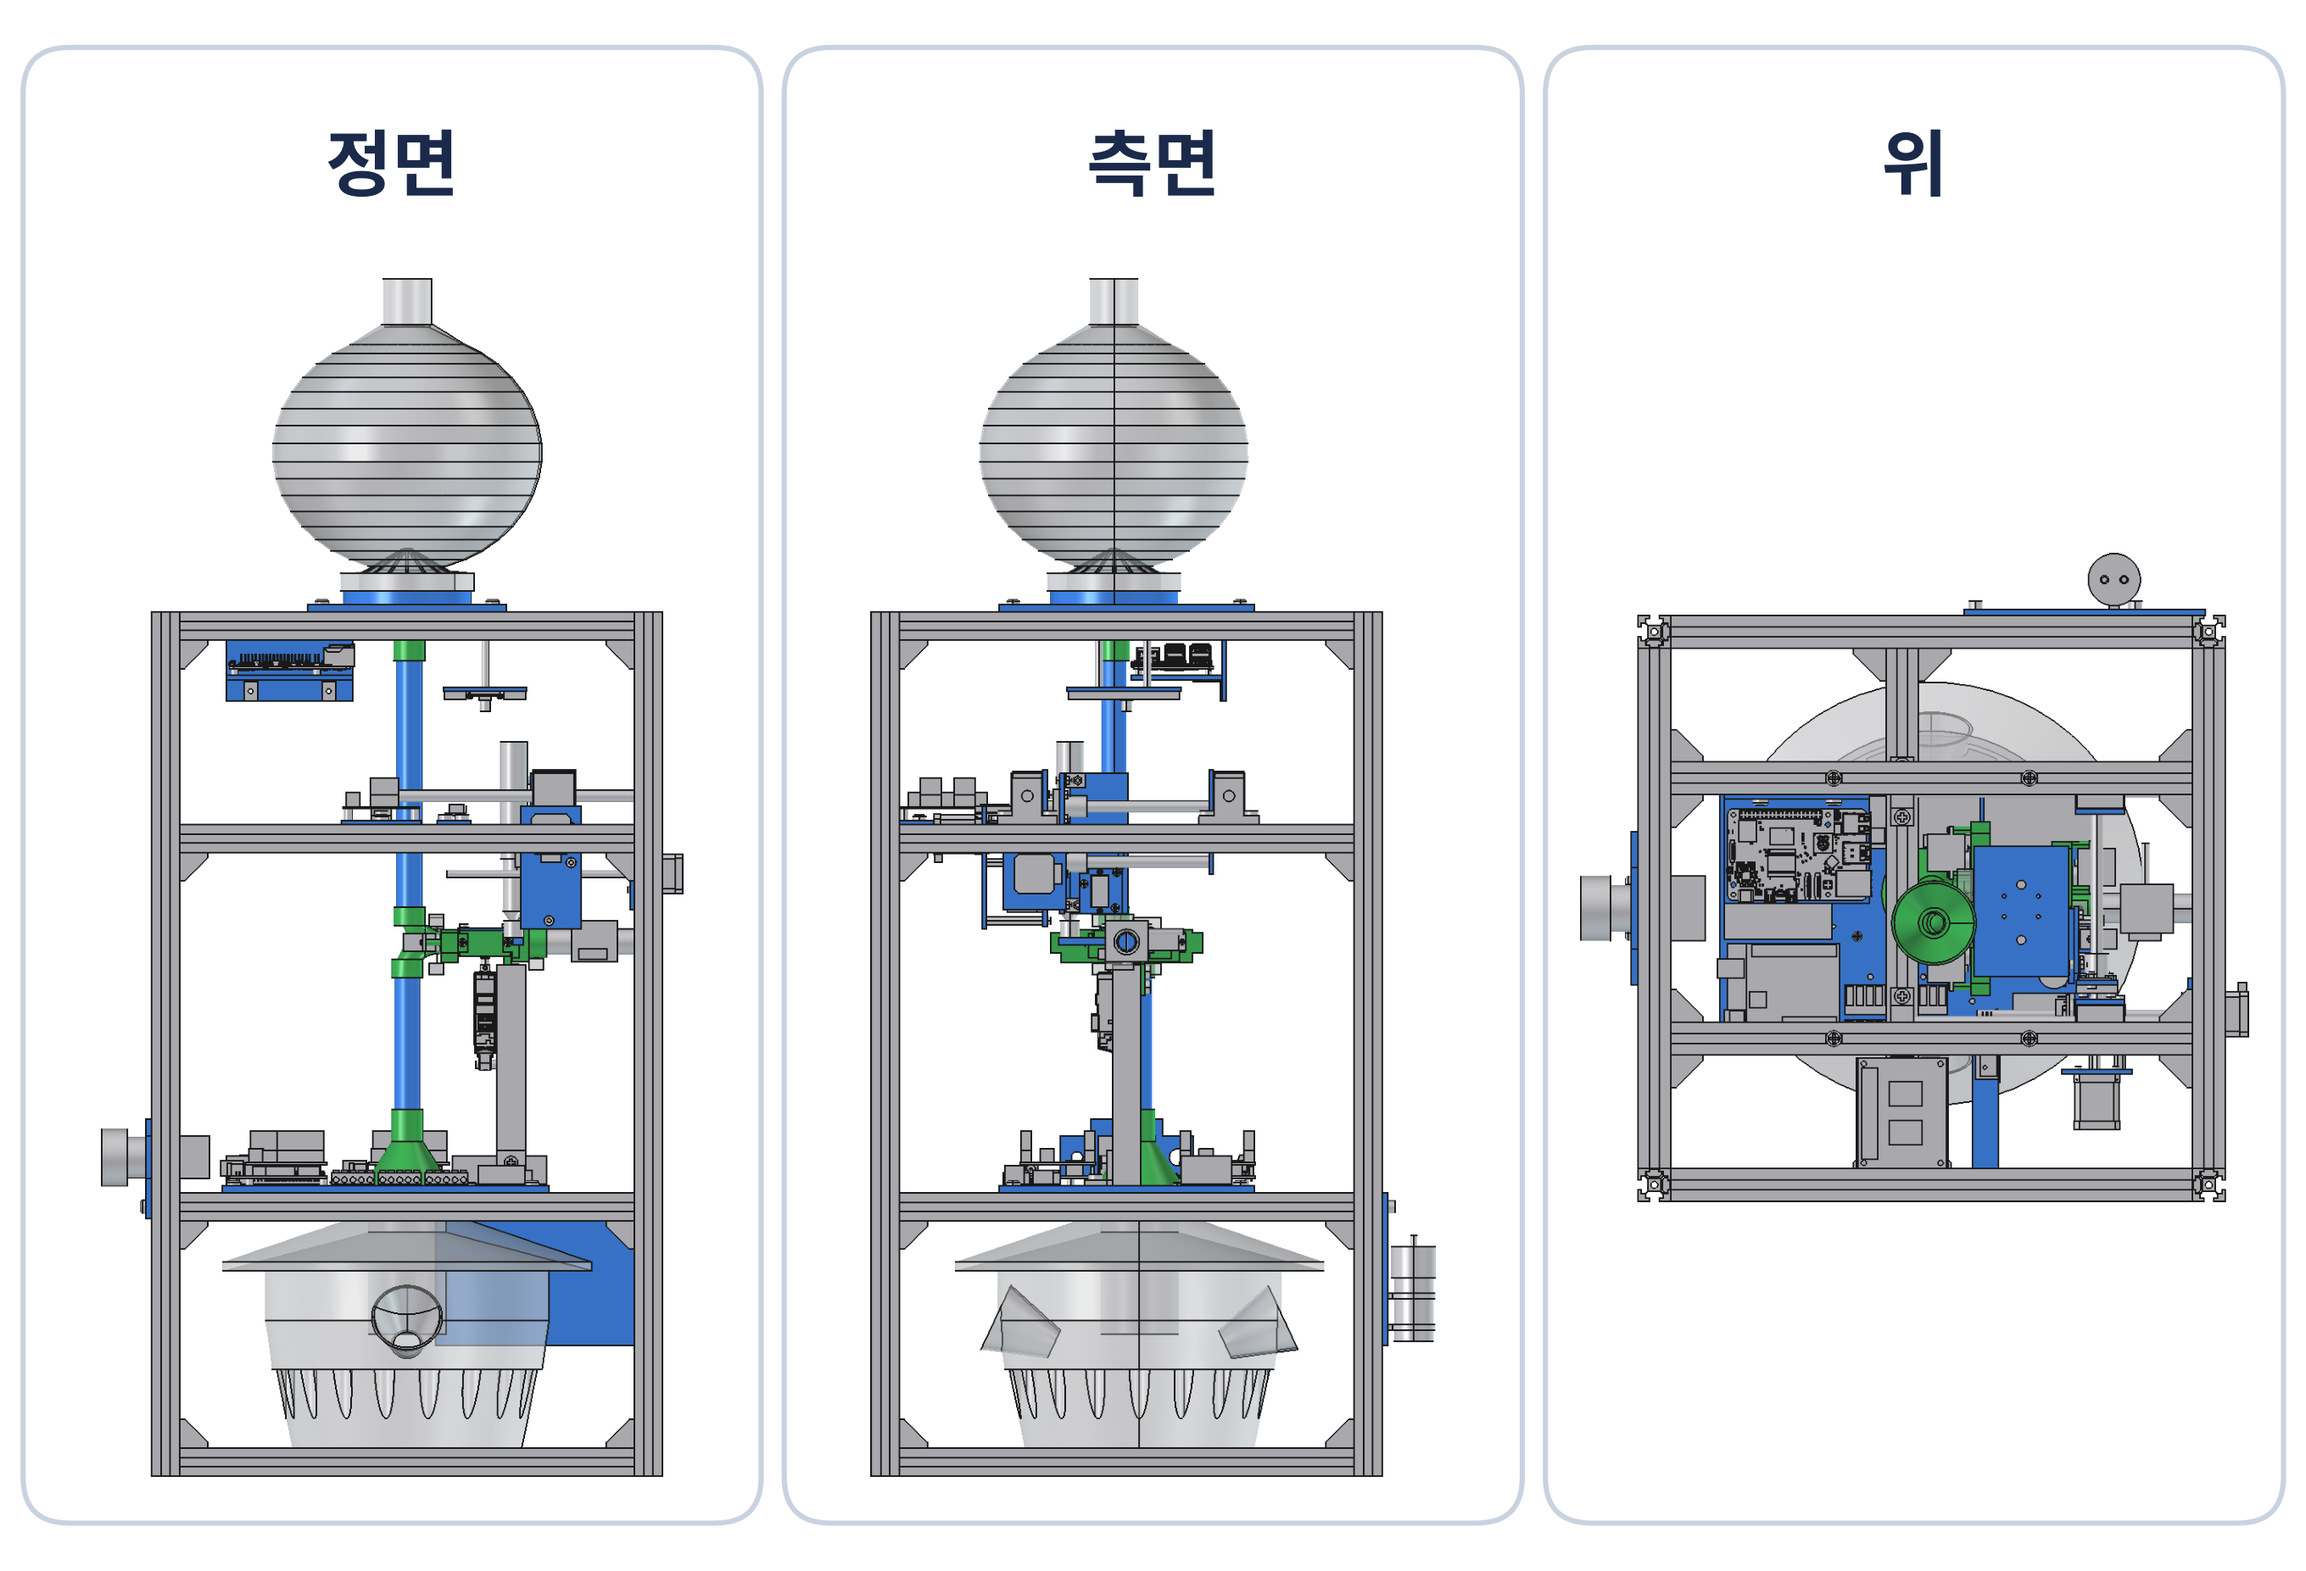
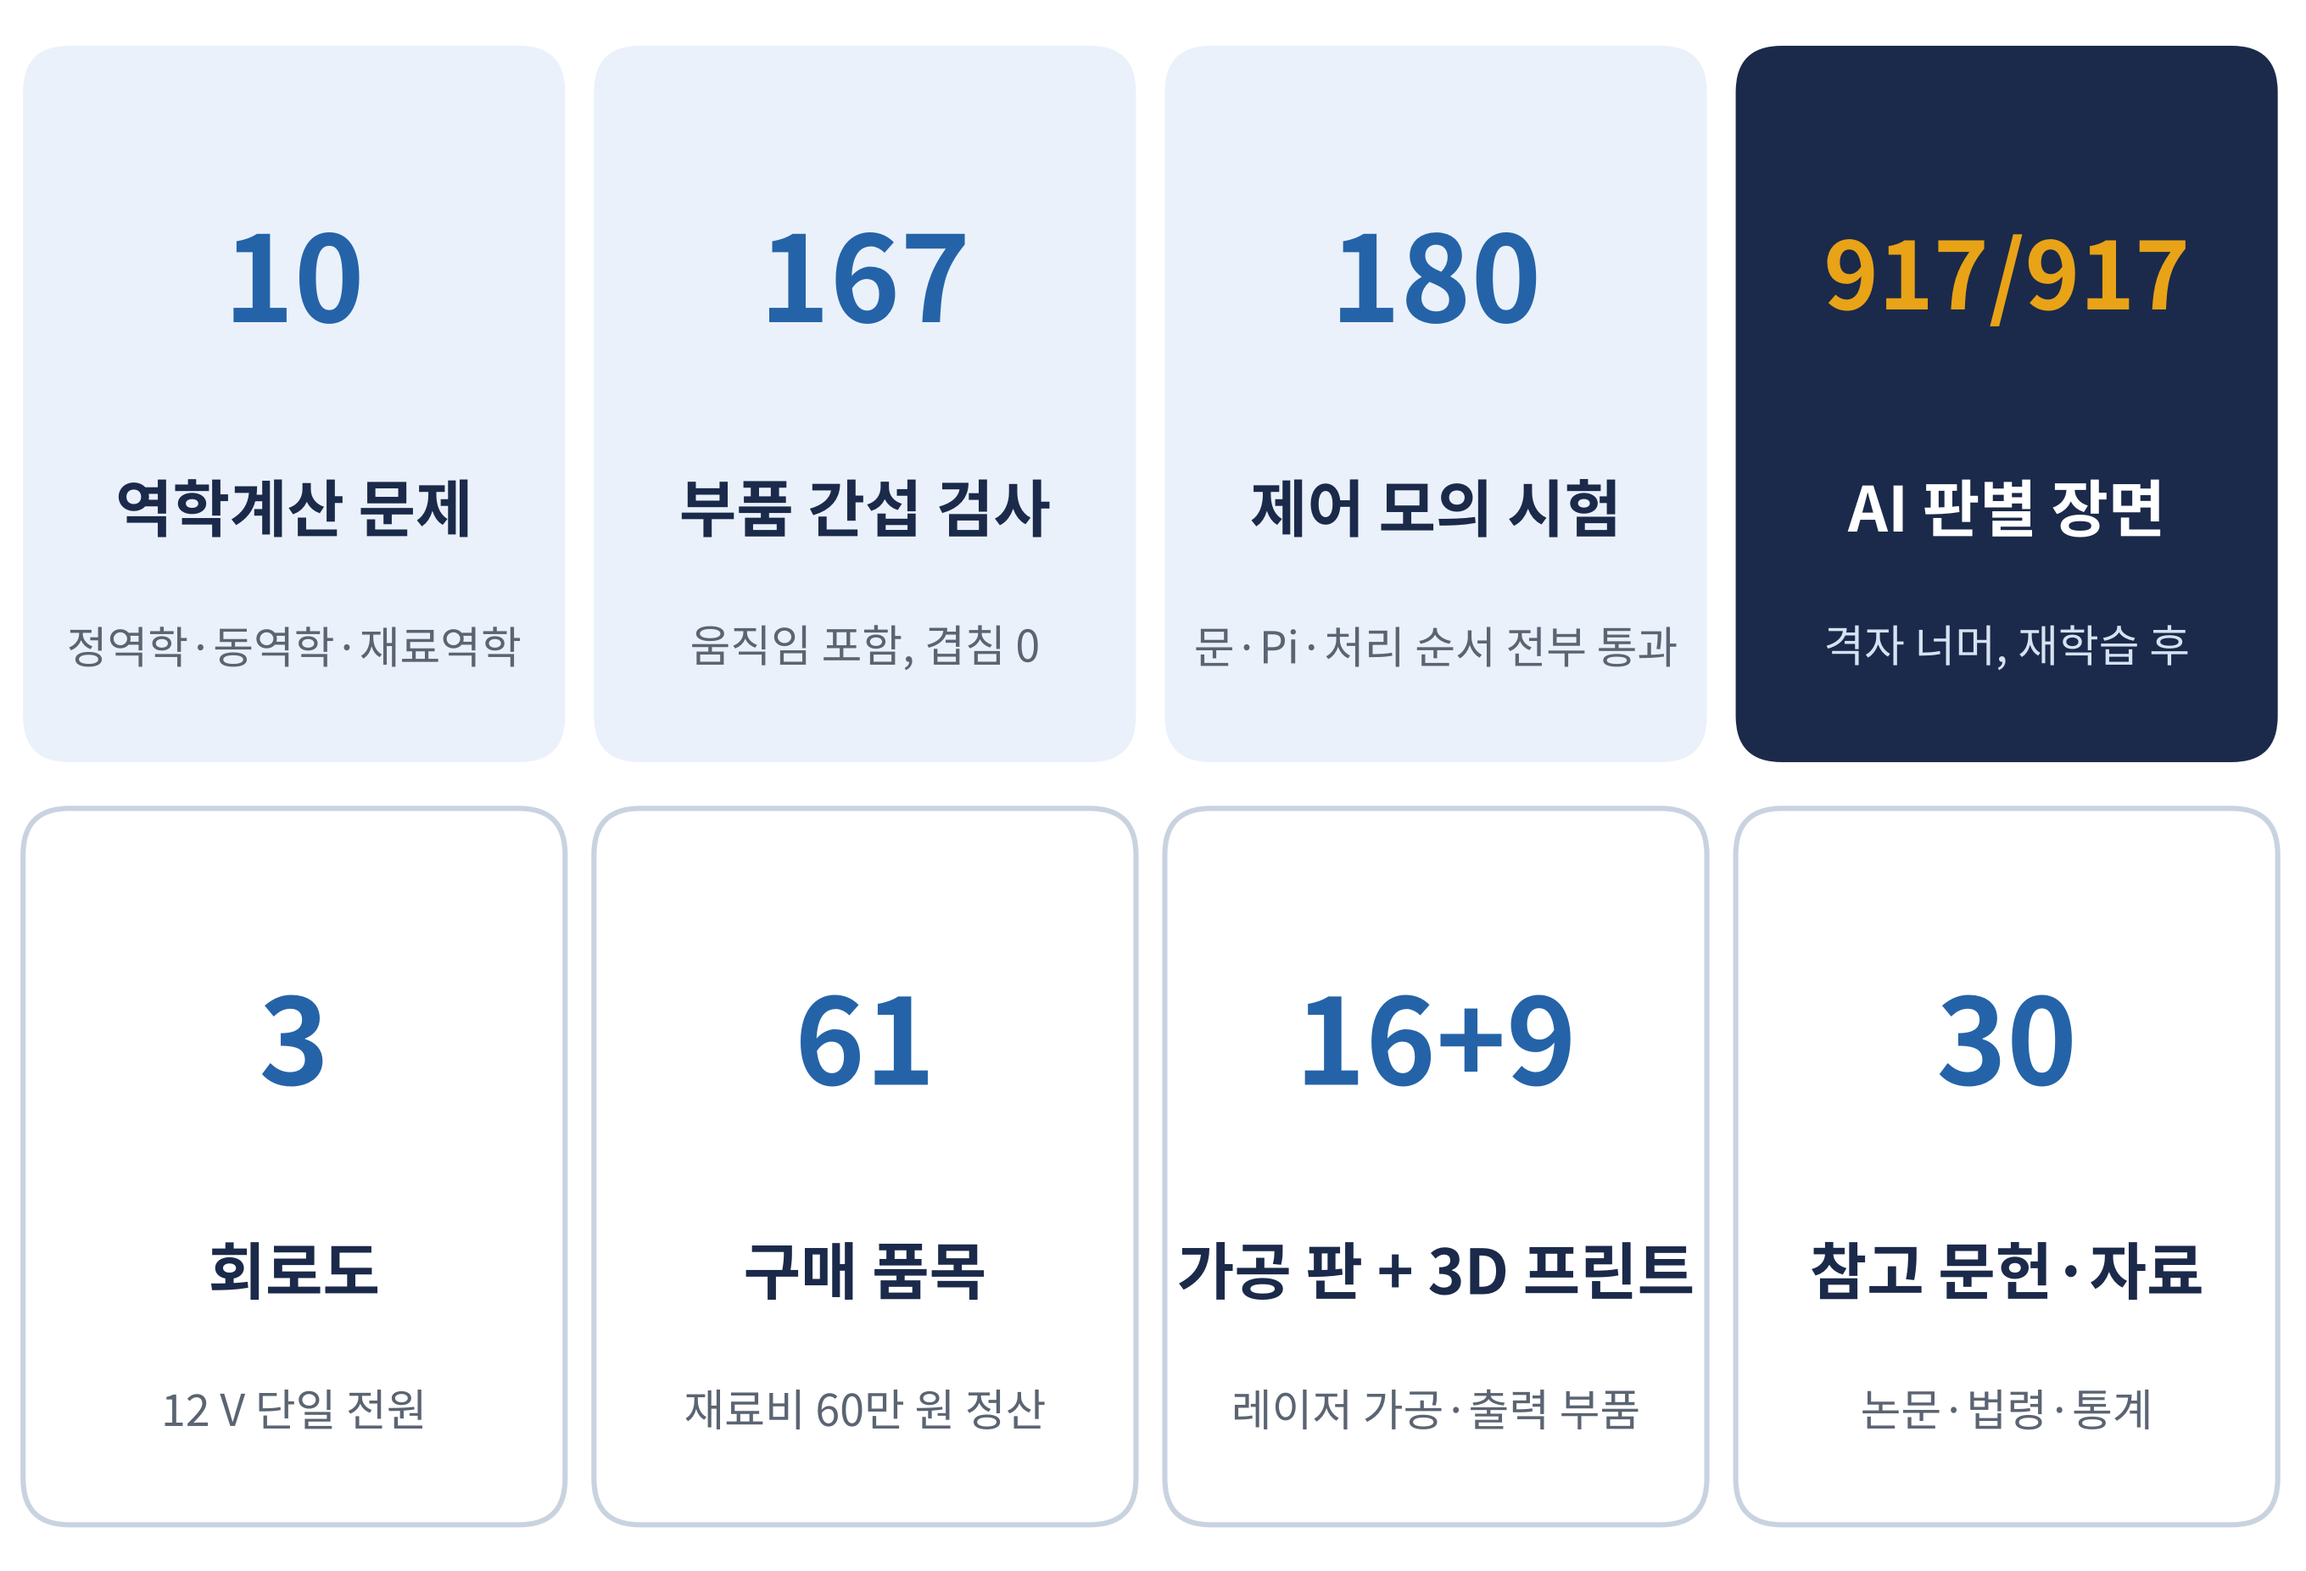
[서현] 포스터 글 늘림·'한 일' 그림, 실물 없음 반영 (전시 X), 팀 정보 줄 줄임 (CAP-AI-62)
Claude-Session: https://claude.ai/code/session_01RWCzqVuPhrynBXeDi6fBqB

diff --git a/design/submit/report.js b/design/submit/report.js
@@ -39,7 +39,7 @@ const cover = [
 const body = [
   h1('요약'),
   p('등검은말벌은 꿀벌을 잡아먹는 외래종으로, 피해를 줄이는 근본 대책은 둥지 제거임. 둥지를 찾는 첫 단계인 "말벌을 잡아 몸에 표시하고 돌아오는 시간을 재는 일"은 지금 사람이 손으로 하고 있어 쏘임 위험과 시간 부담이 큼. 본 과제는 이 단계를 사람 없이 하는 모듈을 설계함. 시판 말벌 트랩에 얹어, 들어온 말벌을 한 마리씩 가두고 → 카메라 AI로 판별하고 → 승강 바닥으로 투명 격자에 고정한 뒤 → XY 펜으로 가슴에 점을 찍고 → 내보내며 시각을 기록함.'),
-  p('고정 방식은 양봉가의 여왕벌 마킹 통 원리를 기계화한 것이고, 판별은 공개 모델 VespAI를 우리 표본과 격자 조건으로 다시 학습해 격자 너머 시험 영상 917/917 장면에서 말벌을 찾음. CAD 움직임·간섭 검사와 제어 시뮬레이션을 통과했고, 12/2 표본 말벌로 동작 시연 예정임.'),
+  p('고정 방식은 양봉가의 여왕벌 마킹 통 원리를 기계화한 것이고, 판별은 공개 모델 VespAI를 우리 표본과 격자 조건으로 다시 학습해 격자 너머 시험 영상 917/917 장면에서 말벌을 찾음. CAD 움직임·간섭 검사와 제어 시뮬레이션을 통과했고, 실물은 대회 이후 제작·시험 예정임.'),
 
   h1('1. 서론'),
   h2('1.1 배경과 필요성'),

diff --git a/design/poster/content.py b/design/poster/content.py
@@ -1,13 +1,13 @@
 OUT='말벌트랩_포스터_앵커_초안.pptx'
 TITLE='등검은말벌 둥지 추적 마킹 트랩'
-TEAM=[('팀      명 ','초벌'),('소      속 ','국립공주대학교 그린바이오 컨소시엄'),('지도교수 ','기계자동차공학부 기계공학전공 김성관 교수'),('팀      장 ','기계자동차공학부 기계공학전공 이서현(4학년)'),('팀      원 ','기계자동차공학부 기계공학전공 이승준(3학년)')]
+TEAM=[('팀      명 ','초벌'),('소      속 ','국립공주대학교 그린바이오 컨소시엄'),('지도교수 ','기계공학전공 김성관 교수'),('팀      장 ','기계공학전공 이서현 (4학년)'),('팀      원 ','기계공학전공 이승준 (3학년)')]
 BODY={
-'직사각형 20':['등검은말벌의 꿀벌 포식으로 양봉 피해 증가','근본 대책은 둥지 제거이나 둥지 탐색이 어려움','말벌 포획·표시를 사람이 직접 수행 → 쏘임 위험'],
-'직사각형 21':['말벌 고정·표시 과정의 완전 자동화','등검은말벌 일벌만 골라 표시·재포획 시각 기록','시판 트랩 장착형 모듈로 공공기관 보급'],
-'직사각형 35':['VespAI의 AI 판별과 여왕벌 마킹 통의 고정·표시','두 방식을 결합한 자동 표시 장치로 기획'],
-'직사각형 37':['승강 바닥으로 말벌을 투명 격자에 고정','XY 이송 펜으로 격자 구멍 너머 가슴에 점 표시','카메라 AI 판별과 적외선 센서 기반 문 제어'],
-'직사각형 42':['들어옴 → 판별 → 고정 → 표시 → 내보냄 자동 처리','일벌이 아닌 개체는 표시 없이 격리','12 V 단일 전원의 알루미늄 프레임 모듈 구조'],
-'직사각형 43':['위험한 손 표시 작업을 기계로 대체','재포획 시각 기반 둥지 거리 추정'],
-'직사각형 44':['지자체·방제 기관용 B2G 조사 장비로 보급','2027년 실물 시험 후 특허 출원'],
+'직사각형 20':['등검은말벌이 꿀벌을 잡아먹어 양봉 피해 확산','트랩은 일벌만 잡으므로 근본 대책은 둥지 제거','둥지 탐색용 말벌 표시를 사람이 직접 해 위험'],
+'직사각형 21':['말벌 포획부터 표시·내보냄까지 사람 손 없이 자동화','카메라 AI로 등검은말벌 일벌만 골라 표시','여왕벌·다른 종은 표시 없이 격리','다시 잡힌 시각을 기록해 둥지 거리 추정에 활용','시판 트랩에 얹는 모듈로 지자체·방제 기관 보급'],
+'직사각형 35':['영국 VespAI: 카메라 AI로 판별만, 표시는 못 함','여왕벌 마킹 통: 망에 눌러 고정 후 손으로 표시','두 방식을 결합해 판별·고정·표시를 기계가 수행','전문가 자문으로 형광 가루 대신 수성 마커 채택'],
+'직사각형 37':['입구 문과 적외선 센서로 한 번에 한 마리만 입실','승강 바닥이 말벌을 투명 격자판에 눌러 고정','XY 이송 장치가 펜을 옮겨 격자 구멍으로 점 표시','펜은 약 0.3 N으로 가볍게, 마지막 2 mm는 천천히'],
+'직사각형 42':['역학계산 10문제로 나사·서보·문 힘과 펜 충격 검토','3D 모델 167개 부품의 움직임·간섭 검사 통과','회로 설계와 제어 프로그램 모의 시험 180개 통과','AI 재학습으로 격자 너머 말벌 917/917 장면 판별','부품 61종 구매, 판 16장 가공·3D 프린트 9종 주문'],
+'직사각형 43':['위험한 말벌 표시 작업을 기계가 대신해 쏘임 위험 제거','기록된 왕복 시간으로 둥지까지 거리 범위 추정'],
+'직사각형 44':['지자체·방제 기관용 둥지 조사 장비 (B2G)로 보급','2027년 여름 실제 말벌로 표시·귀소 시험','시험 결과를 바탕으로 특허 출원 추진'],
 }
 PICS={'직사각형 12':'fig_rep.png','직사각형 45':'fig_goal.png','직사각형 46':'fig_idea.png','직사각형 48':'fig_result.png','직사각형 47':'fig_use.png'}

diff --git a/design/poster/figs2.py b/design/poster/figs2.py
@@ -123,3 +123,20 @@ a.text(50, 12.5, '지자체·방제 기관용 조사 장비 (B2G)', ha='center',
 a.text(50, 4.5, '양봉농가는 표시 없이 모두 가두는 방제 모드로 사용', ha='center', va='center', fontsize=22, color=GRAY)
 f.savefig('fig_use.png'); plt.close(f)
 print('ok')
+
+# ── D' 결과: 한 일 숫자 타일
+f, a = canvas()
+tiles = [('10', '역학계산 문제', '정역학·동역학·재료역학'), ('167', '부품 간섭 검사', '움직임 포함, 겹침 0'),
+         ('180', '제어 모의 시험', '문·Pi·처리 순서 전부 통과'), ('917/917', 'AI 판별 장면', '격자 너머, 재학습 후'),
+         ('3', '회로도', '12 V 단일 전원'), ('61', '구매 품목', '재료비 60만 원 정산'),
+         ('16+9', '가공 판 + 3D 프린트', '레이저 가공·출력 부품'), ('30', '참고 문헌·자료', '논문·법령·통계')]
+for i, (n, t, s) in enumerate(tiles):
+    r, c = divmod(i, 4); x = 1 + c * 24.75; y = 35 - r * 33
+    hl = i in (0, 1, 2, 3)
+    card(a, x, y, 23.5, 31, fc=NAVY if i == 3 else (LIGHT if hl else 'white'), ec=LINE if not hl else 'none', r=2)
+    col = 'white' if i == 3 else NAVY
+    a.text(x + 11.75, y + 21, n, ha='center', va='center', fontsize=46 if len(n) < 5 else 36, weight='bold', color=AMBER if i == 3 else BLUE)
+    a.text(x + 11.75, y + 11, t, ha='center', va='center', fontsize=24, weight='bold', color=col)
+    a.text(x + 11.75, y + 5, s, ha='center', va='center', fontsize=17, color='#D6E2F2' if i == 3 else GRAY)
+f.savefig('fig_result.png'); plt.close(f)
+print('ok2')

diff --git a/design/poster/panel_content.py b/design/poster/panel_content.py
@@ -1,4 +1,4 @@
 P11=['등검은말벌의 꿀벌 포식으로 양봉 피해 증가','근본 대책은 둥지 제거','둥지 탐색의 첫 단계인 말벌 표시를 사람이 직접 수행 → 쏘임 위험·긴 작업 시간','목표: 말벌 고정·표시 과정의 완전 자동화']
 P12=['시판 트랩 장착형 모듈','카메라 AI 판별 → 승강 바닥 고정 → XY 펜 표시 → 내보냄·시각 기록','일벌이 아닌 개체는 표시 없이 격리']
-P41=['여왕벌 마킹 통 원리의 기계화로 사람 손 없는 고정·표시 구현','AI 판별과 결합한 시판 트랩 장착형 모듈 설계','12/2 말벌 표본으로 동작 시연']
+P41=['여왕벌 마킹 통 원리의 기계화로 사람 손 없는 고정·표시 구현','AI 판별과 결합한 시판 트랩 장착형 모듈 설계','실물은 대회 이후 제작·시험 예정']
 P42=['위험한 손 표시 작업을 기계로 대체','재포획 시각 기반 둥지 거리 추정','지자체·방제 기관용 B2G 조사 장비로 보급']

diff --git a/design/poster/mkpanel.py b/design/poster/mkpanel.py
@@ -36,6 +36,7 @@ pic('fig_rep.png',xx,23.4,ww); pic('fig_idea.png',xx,23.4+hh+0.5,ww)
 pic('fig_goal.png',4.2,63.2,37.0); pic('fig_result.png',42.0,63.2,37.6)
 tb(8.6,98.0,31.6,12.0,C.P41,3400); tb(44.6,97.6,36.0,12.0,C.P42,3400)
 x=x.replace('</p:spTree>',''.join(add)+'</p:spTree>')
+x=re.sub(r'<a:rPr(?![^>]*noProof)',r'<a:rPr noProof="1"',x)
 open(S,'w',encoding='utf-8').write(x); open(RL,'w',encoding='utf-8').write(rels)
 if os.path.exists(OUT): os.remove(OUT)
 z=zipfile.ZipFile(OUT,'w',zipfile.ZIP_DEFLATED)

diff --git a/design/poster/mkposter.py b/design/poster/mkposter.py
@@ -61,6 +61,7 @@ set_title('직사각형 18',C.TITLE)
 set_team('직사각형 33',C.TEAM)
 for k,v in C.BODY.items(): set_body(k,v)
 for i,(k,v) in enumerate(C.PICS.items()): add_pic(k,v,f'rId{50+i}')
+x=re.sub(r'<a:rPr(?![^>]*noProof)',r'<a:rPr noProof="1"',x)
 open(S,'w',encoding='utf-8').write(x); open(RL,'w',encoding='utf-8').write(rels)
 out='build/'+C.OUT
 if os.path.exists(out): os.remove(out)

diff --git a/ai-log/AI_명령사항_로그.md b/ai-log/AI_명령사항_로그.md
@@ -1423,4 +1423,11 @@
   - 참가신청서: 연락처·이메일·컨소시엄 채움 (바탕화면만, 레포에 안 넣음). 남은 칸: 학번 2개, 개인정보 동의, M열
   - 파일 이름에서 '초안' 뺌: `말벌트랩_포스터_앵커.pptx`, `말벌트랩_판넬_창의융합.pptx`, `말벌트랩_앵커_참가신청서.xlsx` (예전 '_초안' 파일은 폴더에 남음 — 지울 권한 없음)
   - 미리보기 한계: LibreOffice 렌더라 맑은 고딕이 없고 '1. 설계 주제' 같은 양식 제목이 겹쳐 보임 (양식 상자가 줄바꿈 없음 — PowerPoint에서는 한 줄 [가능성 높음])
+- **(11/23 15:01~15:06) 서현 "대회 날까지 실물 못 만듦 → 포스터로만", "예전 파일 지워", "설명을 너무 줄여 이해가 안 됨, 한 것도 많은데":**
+  - 서현이 본 화면은 예전 `_초안` 파일 (00컨소시엄·0학년) — 새 파일 이름 `말벌트랩_포스터_앵커.pptx`
+  - 실물 없음 반영: 신청서 작품전시 X (형태 비움), 판넬 결론·보고서 요약 '시연' → '실물은 대회 이후 제작·시험 예정'
+  - 포스터 글을 칸에 들어가는 만큼 늘림 (양식 상자 사이 빈 공간 계산: 목적·결과 5줄, 기획·설계 4줄, 기대효과 2줄, 향후 3줄 — LibreOffice 렌더로 겹침 없음 확인) — 왜·어떻게가 보이는 문장으로
+  - '한 일' 그림 (결과 칸): 역학계산 10 · 부품 간섭 검사 167 · 제어 모의 시험 180 · AI 판별 917/917 · 회로도 3 · 구매 품목 61 · 가공 판 16 + 3D 프린트 9 · 참고 자료 30
+  - 팀 정보 줄 짧게 (PowerPoint에서 두 줄로 꺾임 방지), 맞춤법 빨간 줄 끔 (noProof)
+  - 예전 파일 지움: 앵커 `_초안` 포스터, 판넬 `_초안`, 빈 `대회_제출` 폴더. **신청서 `_초안.xlsx`는 Excel에서 열려 있어 못 지움**
 
